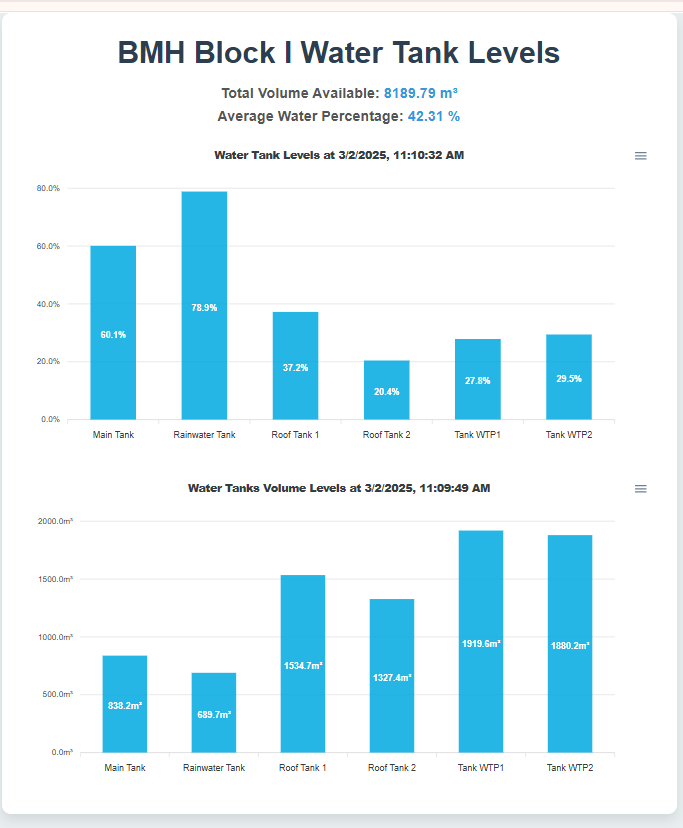
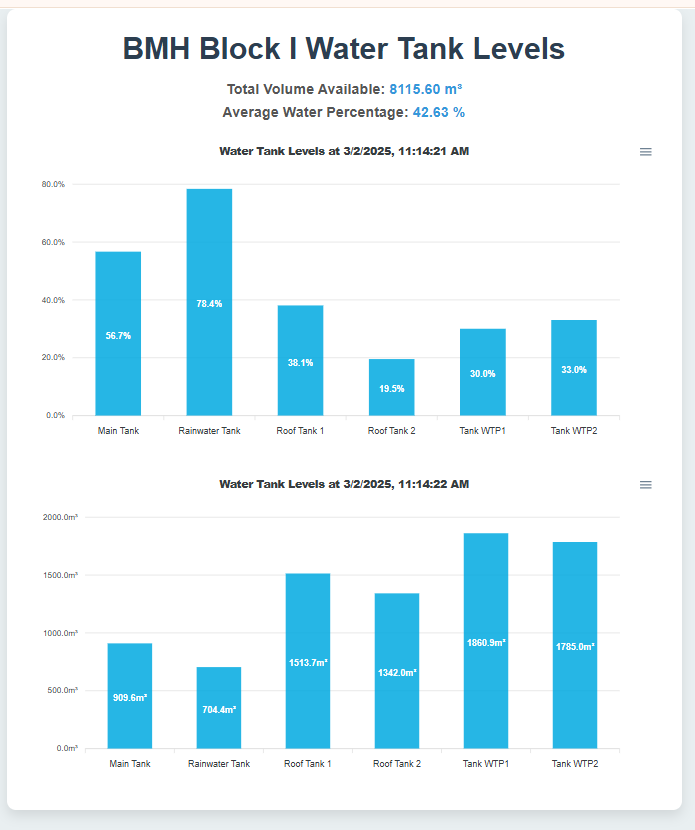
commit

diff --git a/frontend/script.js b/frontend/script.js
@@ -151,8 +151,15 @@ function updateHeaderInfo(tanks) {
 
 // Update the title every second
 setInterval(function() {
-    // Update the chart title with current time
+    // Update the percentage chart title with current time
     chart.updateOptions({
+        title: {
+            text: `Water Tank Levels at ${new Date().toLocaleString()}` // Update title with current time
+        }
+    });
+
+    //update volume chart time at header
+    chart2.updateOptions({
         title: {
             text: `Water Tank Levels at ${new Date().toLocaleString()}` // Update title with current time
         }
